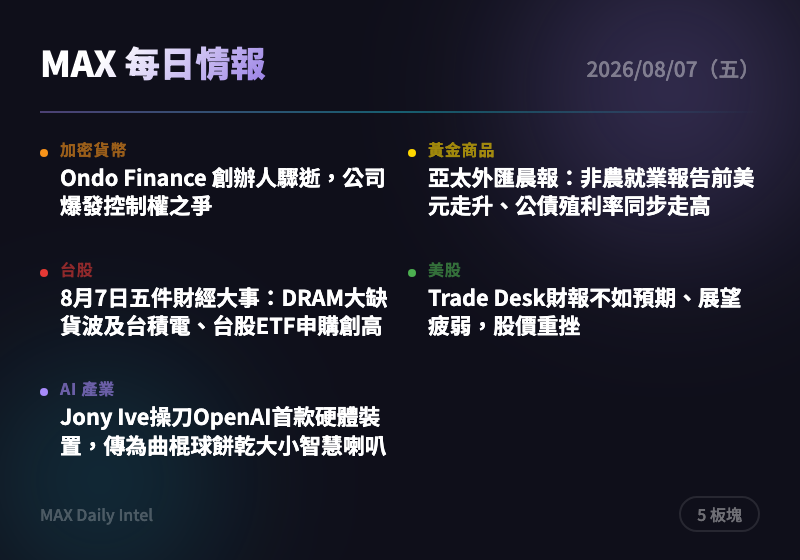
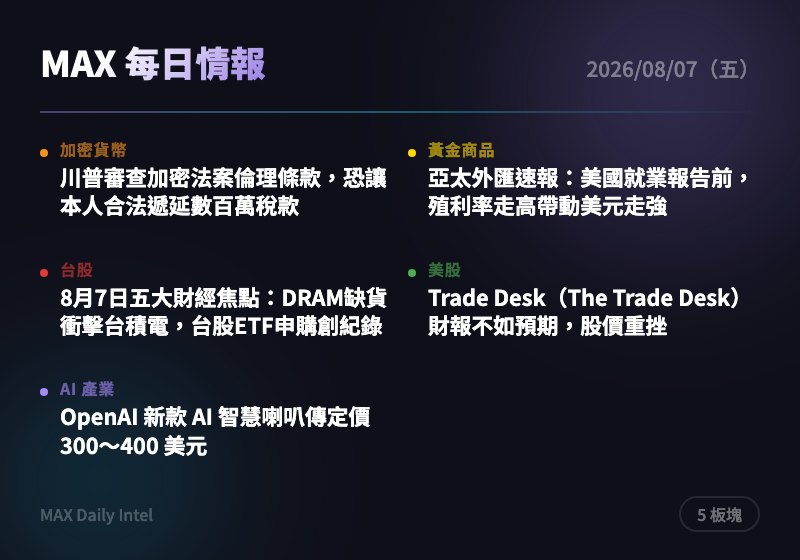
intel: 2026-08-07 每日情報自動生成

diff --git a/docs/2026-08-07.html b/docs/2026-08-07.html
@@ -317,16 +317,16 @@
       <span class="badge">2 則</span>
     </div>
     <div class="news-card">
-      <div class="source">CoinDesk</div>
-      <h3><a href="https://www.coindesk.com/policy/2026/08/06/power-struggle-erupts-at-ondo-finance-after-founder-s-death" target="_blank" rel="noopener">Ondo Finance 創辦人驟逝，公司爆發控制權之爭</a></h3>
-      <div class="summary">Ondo Finance 創辦人過世後，其母親出面要求奪回公司控制權並撤換現任執行長 De Bode。若公司治理陷入僵局，恐衝擊該公司在代幣化真實資產（RWA）領域的市場地位。建議持有相關部位者密切關注公司治理進展，暫緩加碼。</div>
-      <div class="tags"><span class="tag">加密貨幣</span><span class="tag">公司治理</span><span class="tag">RWA</span><span class="tag">Ondo Finance</span></div>
+      <div class="source">The Block</div>
+      <h3><a href="https://www.theblock.co/post/411065/crypto-bill-ethics-provision-could-let-trump-defer-millions-in-taxes-bloomberg?utm_source=rss&utm_medium=rss" target="_blank" rel="noopener">川普審查加密法案倫理條款，恐讓本人合法遞延數百萬稅款</a></h3>
+      <div class="summary">川普正審查加密貨幣立法中的倫理語言條款，若通過恐讓他本人獲得可觀的個人稅務優惠。此事凸顯加密監管立法與政治人物利益糾葛，可能影響法案推進速度與市場對美國加密監管明朗化的預期。建議追蹤該條款是否被移除或修改，作為判斷加密立法時程的風向指標。</div>
+      <div class="tags"><span class="tag">加密貨幣</span><span class="tag">監管</span><span class="tag">美國政治</span><span class="tag">稅務</span></div>
     </div>
     <div class="news-card">
       <div class="source">The Block</div>
-      <h3><a href="https://www.theblock.co/post/411049/bitcoin-miners-mara-cleanspark-double-digital-revenue-drops-ai-infrastructure-pivot?utm_source=rss&utm_medium=rss" target="_blank" rel="noopener">比特幣礦商 MARA、CleanSpark 營收雙位數下滑，轉型 AI 基礎建設持續</a></h3>
-      <div class="summary">兩大比特幣礦商財報顯示虧損擴大，MARA 淨損達 6.11 億美元，CleanSpark 淨損 2.4 億美元，反映挖礦本業獲利承壓。礦商正加速轉向 AI 資料中心業務尋求新成長動能，但市場對執行力要求更高。建議關注礦商轉型 AI 業務的具體進展與獲利兌現能力，勿僅憑題材追高。</div>
-      <div class="tags"><span class="tag">比特幣</span><span class="tag">礦商</span><span class="tag">AI基建</span><span class="tag">財報</span></div>
+      <h3><a href="https://www.theblock.co/post/411049/bitcoin-miners-mara-cleanspark-double-digital-revenue-drops-ai-infrastructure-pivot?utm_source=rss&utm_medium=rss" target="_blank" rel="noopener">比特幣礦商 MARA、CleanSpark 營收雙位數重挫，轉型 AI 基礎設施持續</a></h3>
+      <div class="summary">MARA 淨損擴大至 6.113 億美元（每股虧損 1.60 美元），CleanSpark 淨損 2.398 億美元（每股虧損 0.89 美元），兩大比特幣礦商營收明顯下滑。這反映挖礦業者在比特幣獲利壓力下加速轉型 AI 算力代管，但轉型初期仍面臨獲利陣痛。投資人應留意礦商轉型 AI 基建的執行進度是否能扭轉財報表現，而非僅看挖礦本業數字。</div>
+      <div class="tags"><span class="tag">比特幣</span><span class="tag">礦業</span><span class="tag">AI</span><span class="tag">財報</span></div>
     </div>
   </section>
 
@@ -338,15 +338,15 @@
     </div>
     <div class="news-card">
       <div class="source">ForexLive</div>
-      <h3><a href="https://investinglive.com/news/investinglive-asia-pacific-fx-news-wrap-6-aug-usd-moves-higher-with-yields-ahead-of-us-jobs-report/" target="_blank" rel="noopener">亞太外匯晨報：非農就業報告前美元走升、公債殖利率同步走高</a></h3>
-      <div class="summary">美國公債殖利率週四大漲，兩年期殖利率上升逾7個基點，十年期殖利率漲近6個基點至4.67%，主因初領失業金人數優於預期、生產力數據強勁，顯示就業市場依然具韌性。市場正密切關注即將公布的7月非農就業報告，作為聯準會後續利率路徑的重要參考。建議黃金與美元部位留意非農數據公布後的波動風險。</div>
-      <div class="tags"><span class="tag">外匯</span><span class="tag">美元</span><span class="tag">公債殖利率</span><span class="tag">非農就業</span></div>
+      <h3><a href="https://investinglive.com/news/investinglive-asia-pacific-fx-news-wrap-6-aug-usd-moves-higher-with-yields-ahead-of-us-jobs-report/" target="_blank" rel="noopener">亞太外匯速報：美國就業報告前，殖利率走高帶動美元走強</a></h3>
+      <div class="summary">美國公債殖利率週四大幅走高，兩年期殖利率上漲逾 7 個基點，十年期殖利率上漲近 6 個基點至 4.67%，主因是初領失業金人數優於預期、生產力數據強勁，顯示就業市場依然具韌性。殖利率走高通常對黃金構成短期壓力，因持有黃金的機會成本上升。建議關注即將公布的非農就業報告，將是黃金與美元短期方向的關鍵觸發點。</div>
+      <div class="tags"><span class="tag">美元</span><span class="tag">殖利率</span><span class="tag">就業數據</span><span class="tag">黃金</span></div>
     </div>
     <div class="news-card">
       <div class="source">ForexLive</div>
-      <h3><a href="https://investinglive.com/news/iran-is-reportedly-drafting-a-strategic-plan-that-would-restrict-access-through-the-strait-of-hormuz/" target="_blank" rel="noopener">傳伊朗擬限制荷姆茲海峽通行，鎖定美以相關船隻</a></h3>
-      <div class="summary">伊朗媒體 Fars 報導，伊朗正草擬戰略計畫，限制與美國、以色列及其他「敵對」國家有關的船隻通過荷姆茲海峽。此舉若成真將加劇中東地緣政治緊張，威脅全球原油運輸要道，推升避險需求與油價上行壓力。建議黃金及原油相關部位提高地緣政治風險權重，留意後續官方證實情況。</div>
-      <div class="tags"><span class="tag">地緣政治</span><span class="tag">伊朗</span><span class="tag">原油</span><span class="tag">荷姆茲海峽</span></div>
+      <h3><a href="https://investinglive.com/news/iran-is-reportedly-drafting-a-strategic-plan-that-would-restrict-access-through-the-strait-of-hormuz/" target="_blank" rel="noopener">伊朗傳研擬限制荷莫茲海峽航行，鎖定美、以船隻</a></h3>
+      <div class="summary">伊朗媒體 Fars 報導，伊朗正草擬戰略計畫，擬限制與美國、以色列及其他被視為敵對國家有關的船隻通過荷莫茲海峽，包含禁止相關軍民船隻通行、封鎖相關貨物運輸。荷莫茲海峽是全球原油運輸要道，任何封鎖威脅都將推升地緣政治風險溢價，帶動避險買盤湧入黃金與原油。建議密切關注後續官方證實與美方反應，作為黃金短線避險部位進出場依據。</div>
+      <div class="tags"><span class="tag">地緣政治</span><span class="tag">原油</span><span class="tag">避險</span><span class="tag">中東</span></div>
     </div>
   </section>
 
@@ -358,15 +358,15 @@
     </div>
     <div class="news-card">
       <div class="source">經濟日報</div>
-      <h3><a href="https://money.udn.com/money/story/5607/9676179" target="_blank" rel="noopener">8月7日五件財經大事：DRAM大缺貨波及台積電、台股ETF申購創高</a></h3>
-      <div class="summary">記憶體大缺貨風暴延燒，台積電傳出手握約10億美元蘋果處理器訂單卻苦無DRAM可用，凸顯供應鏈緊張已從記憶體廠蔓延至晶圓代工龍頭。同時台股ETF單月淨申購首度突破5,600億元、前七月累計申購達1.5兆元創新猷，顯示散戶資金持續透過ETF大舉進場。建議關注記憶體缺貨對下游供應鏈交期與報價的連動影響。</div>
-      <div class="tags"><span class="tag">台股</span><span class="tag">記憶體</span><span class="tag">台積電</span><span class="tag">ETF</span></div>
+      <h3><a href="https://money.udn.com/money/story/5607/9676179" target="_blank" rel="noopener">8月7日五大財經焦點：DRAM缺貨衝擊台積電，台股ETF申購創紀錄</a></h3>
+      <div class="summary">記憶體大缺貨傳出波及台積電，手握約10億美元蘋果處理器訂單卻缺 DRAM 可用；同時台股 ETF 單月淨申購首度突破 5,600 億元，前七月累計申購達 1.5 兆元創新高。這顯示記憶體供應鏈緊張已擴散至晶圓代工龍頭，同時台灣散戶資金大舉透過 ETF 進場，市場資金動能與供應鏈風險並存。建議留意記憶體缺貨對台積電及下游客戶交期的實際影響，並觀察 ETF 資金是否持續支撐大盤估值。</div>
+      <div class="tags"><span class="tag">台積電</span><span class="tag">記憶體</span><span class="tag">ETF</span><span class="tag">半導體</span></div>
     </div>
     <div class="news-card">
       <div class="source">經濟日報</div>
-      <h3><a href="https://money.udn.com/money/story/5710/9675607" target="_blank" rel="noopener">AES-KY第二季EPS 12.81元，AI伺服器備援電池模組出貨帶動獲利</a></h3>
-      <div class="summary">電池模組股王AES-KY第二季受惠AI伺服器備援電池模組（BBU）出貨放量，稅後純益季增逾兩成，單季EPS達12.81元創新高，上半年已賺逾兩個股本。此顯示AI伺服器供應鏈中利基型零組件廠商持續受惠資本支出熱潮。建議關注AI伺服器相關零組件供應商的訂單能見度與擴產進度。</div>
-      <div class="tags"><span class="tag">台股</span><span class="tag">AI伺服器</span><span class="tag">財報</span><span class="tag">電池模組</span></div>
+      <h3><a href="https://money.udn.com/money/story/5739/9675659" target="_blank" rel="noopener">記憶體題材發燒，旺宏、宜鼎權證認購買氣聚焦</a></h3>
+      <div class="summary">台股昨日震盪走跌收 44,396 點，但記憶體相關個股表現亮眼，發行券商點名旺宏（2337）、宜鼎（5289）權證受到買盤青睞。此反映在全球記憶體漲價與缺貨題材延燒下，市場資金轉向布局台廠記憶體概念股。建議關注記憶體報價後續走勢，作為判斷相關權證與個股行情持續性的依據。</div>
+      <div class="tags"><span class="tag">記憶體</span><span class="tag">權證</span><span class="tag">台股</span><span class="tag">半導體</span></div>
     </div>
   </section>
 
@@ -378,14 +378,14 @@
     </div>
     <div class="news-card">
       <div class="source">MarketWatch</div>
-      <h3><a href="https://www.marketwatch.com/story/trade-desk-shares-tumble-on-earnings-miss-and-weak-outlook-9f4640e9?mod=mw_rss_topstories" target="_blank" rel="noopener">Trade Desk財報不如預期、展望疲弱，股價重挫</a></h3>
-      <div class="summary">廣告科技公司 Trade Desk 第二季財報營收與獲利雙雙不如預期，加上疲弱的未來展望，導致股價大幅下跌，顯示其成長動能持續放緩。建議關注數位廣告產業競爭格局變化及該公司後續轉型策略。</div>
-      <div class="tags"><span class="tag">美股</span><span class="tag">廣告科技</span><span class="tag">財報</span></div>
+      <h3><a href="https://www.marketwatch.com/story/trade-desk-shares-tumble-on-earnings-miss-and-weak-outlook-9f4640e9?mod=mw_rss_topstories" target="_blank" rel="noopener">Trade Desk（The Trade Desk）財報不如預期，股價重挫</a></h3>
+      <div class="summary">Trade Desk 第二季財報營收與獲利雙雙未達市場預期，且展望令人失望，反映公司成長動能持續放緩。作為程式化廣告技術指標股，其疲弱表現可能引發市場對數位廣告產業成長性的重新評估。建議留意同業廣告科技股是否受到連帶拖累，並觀察公司後續展望調整方向。</div>
+      <div class="tags"><span class="tag">美股</span><span class="tag">廣告科技</span><span class="tag">財報</span><span class="tag">成長股</span></div>
     </div>
     <div class="news-card">
       <div class="source">MarketWatch</div>
-      <h3><a href="https://www.marketwatch.com/story/honeywell-aerospace-lands-in-wall-streets-penalty-box-after-gloomy-guidance-triggers-21-stock-selloff-ea8b032c?mod=mw_rss_topstories" target="_blank" rel="noopener">漢威聯合航太財報疲弱，股價暴跌23%被打入華爾街「冷宮」</a></h3>
-      <div class="summary">剛拆分獨立不久的漢威聯合航太（Honeywell Aerospace）因財測展望悲觀，股價單日重挫23%，成立僅數週便震驚華爾街。此事件顯示大型企業分拆後獨立經營初期仍面臨市場高度檢視與信任重建壓力。建議關注該公司後續財測修正與訂單能見度是否能穩定投資人信心。</div>
+      <h3><a href="https://www.marketwatch.com/story/honeywell-aerospace-lands-in-wall-streets-penalty-box-after-gloomy-guidance-triggers-21-stock-selloff-ea8b032c?mod=mw_rss_topstories" target="_blank" rel="noopener">漢威聯合航太（Honeywell Aerospace）財測悲觀，股價暴跌23%</a></h3>
+      <div class="summary">剛從漢威聯合分拆獨立不久的漢威航太，因公布悲觀財測，股價單日暴跌23%，震驚華爾街。這顯示這家新掛牌獨立公司在成立初期就面臨市場信心考驗，分拆後的獨立營運能力受到質疑。建議關注該公司後續財測調整與管理層應對策略，作為評估分拆公司獨立營運品質的案例參考。</div>
       <div class="tags"><span class="tag">美股</span><span class="tag">航太</span><span class="tag">財報</span><span class="tag">企業分拆</span></div>
     </div>
   </section>
@@ -397,16 +397,16 @@
       <span class="badge">2 則</span>
     </div>
     <div class="news-card">
-      <div class="source">The Verge AI</div>
-      <h3><a href="https://www.theverge.com/ai-artificial-intelligence/976431/openai-chatgpt-battery-smart-speaker-rumor" target="_blank" rel="noopener">Jony Ive操刀OpenAI首款硬體裝置，傳為曲棍球餅乾大小智慧喇叭</a></h3>
-      <div class="summary">OpenAI 與前蘋果設計師 Jony Ive 合作開發的AI裝置，據Bloomberg記者Mark Gurman報導，形似無螢幕智慧喇叭，電池供電、甜甜圈造型，體積約如曲棍球餅乾，預計2027年上市、售價超過300美元。此為OpenAI首度跨足消費性硬體領域，若成功將挑戰現有智慧喇叭市場格局。建議關注後續產品發表細節及市場競品（如Amazon Echo、Google Home）的因應策略。</div>
-      <div class="tags"><span class="tag">AI</span><span class="tag">OpenAI</span><span class="tag">硬體</span><span class="tag">消費電子</span></div>
+      <div class="source">TechCrunch AI</div>
+      <h3><a href="https://techcrunch.com/2026/08/06/openais-new-ai-smart-speaker-will-reportedly-sell-for-between-300-400/" target="_blank" rel="noopener">OpenAI 新款 AI 智慧喇叭傳定價 300～400 美元</a></h3>
+      <div class="summary">據報導，OpenAI 與前蘋果設計師 Jony Ive 合作開發的神秘 AI 裝置，實為一款無螢幕智慧喇叭，定價落在300至400美元之間，預計2027年推出。這是 OpenAI 首次跨足消費硬體領域，象徵 AI 公司從純軟體服務走向硬體生態系布局，可能開啟 AI 原生裝置市場新戰場。建議關注此裝置對現有智慧喇叭市場（如 Amazon、Google）的競爭衝擊，以及 OpenAI 硬體策略對其估值的影響。</div>
+      <div class="tags"><span class="tag">OpenAI</span><span class="tag">AI硬體</span><span class="tag">消費電子</span><span class="tag">Jony Ive</span></div>
     </div>
     <div class="news-card">
       <div class="source">TechCrunch AI</div>
-      <h3><a href="https://techcrunch.com/2026/08/05/klaviyo-acquires-elias-torres-agency-in-full-circle-reunion-for-tech-founders/" target="_blank" rel="noopener">Jeff Dean等Google頂尖AI研究員出走，另起爐灶創業</a></h3>
-      <div class="summary">Google傳奇高層Jeff Dean與多位資深AI研究員宣布離職，共同創立新創公司，目標運用AI推動科學發現進程。此事件緊接Google宣布大規模AI組織重組之後爆發，反映Google在AI人才留任上面臨嚴峻挑戰，也可能加劇AI人才市場的競爭與資金重新分配。建議關注新創公司後續募資動向及對Google DeepMind研發布局的潛在衝擊。</div>
-      <div class="tags"><span class="tag">AI</span><span class="tag">Google</span><span class="tag">人才出走</span><span class="tag">新創</span></div>
+      <h3><a href="https://techcrunch.com/2026/08/06/openai-brings-unlimited-chatgpt-text-chats-to-free-users/" target="_blank" rel="noopener">ChatGPT 免費用戶可無限次文字對話</a></h3>
+      <div class="summary">OpenAI 宣布 ChatGPT 免費版與 Go 方案用戶自下週起可享無限次文字對話，並新增可處理複雜查詢的「思考」按鈕功能。此舉大幅提升免費用戶體驗，可能加速用戶黏著度與轉換率，同時也是 OpenAI 對抗 Google、Anthropic 等競爭對手爭奪一般消費者市場的策略之一。建議關注此舉對付費訂閱轉換率的長期影響，以及是否帶動整體月活躍用戶數成長。</div>
+      <div class="tags"><span class="tag">OpenAI</span><span class="tag">ChatGPT</span><span class="tag">產品更新</span><span class="tag">AI</span></div>
     </div>
   </section>
 

diff --git a/docs/cards/2026-08-07-card.html b/docs/cards/2026-08-07-card.html
@@ -23,10 +23,10 @@ body{width:400px;height:280px;font-family:'Noto Sans TC',-apple-system,sans-seri
 <div class="content">
 <div class="top-row"><span class="title">MAX 每日情報</span><span class="date">2026/08/07（五）</span></div>
 <div class="divider"></div>
-<div class="grid"><div class="cell"><div class="dot" style="background:#f7931a"></div><div><div class="label" style="color:#f7931a">加密貨幣</div><div class="headline">Ondo Finance 創辦人驟逝，公司爆發控制權之爭</div></div></div>
-<div class="cell"><div class="dot" style="background:#ffd700"></div><div><div class="label" style="color:#ffd700">黃金商品</div><div class="headline">亞太外匯晨報：非農就業報告前美元走升、公債殖利率同步走高</div></div></div>
-<div class="cell"><div class="dot" style="background:#e53935"></div><div><div class="label" style="color:#e53935">台股</div><div class="headline">8月7日五件財經大事：DRAM大缺貨波及台積電、台股ETF申購創高</div></div></div>
-<div class="cell"><div class="dot" style="background:#4caf50"></div><div><div class="label" style="color:#4caf50">美股</div><div class="headline">Trade Desk財報不如預期、展望疲弱，股價重挫</div></div></div>
-<div class="cell"><div class="dot" style="background:#a78bfa"></div><div><div class="label" style="color:#a78bfa">AI 產業</div><div class="headline">Jony Ive操刀OpenAI首款硬體裝置，傳為曲棍球餅乾大小智慧喇叭</div></div></div></div>
+<div class="grid"><div class="cell"><div class="dot" style="background:#f7931a"></div><div><div class="label" style="color:#f7931a">加密貨幣</div><div class="headline">川普審查加密法案倫理條款，恐讓本人合法遞延數百萬稅款</div></div></div>
+<div class="cell"><div class="dot" style="background:#ffd700"></div><div><div class="label" style="color:#ffd700">黃金商品</div><div class="headline">亞太外匯速報：美國就業報告前，殖利率走高帶動美元走強</div></div></div>
+<div class="cell"><div class="dot" style="background:#e53935"></div><div><div class="label" style="color:#e53935">台股</div><div class="headline">8月7日五大財經焦點：DRAM缺貨衝擊台積電，台股ETF申購創紀錄</div></div></div>
+<div class="cell"><div class="dot" style="background:#4caf50"></div><div><div class="label" style="color:#4caf50">美股</div><div class="headline">Trade Desk（The Trade Desk）財報不如預期，股價重挫</div></div></div>
+<div class="cell"><div class="dot" style="background:#a78bfa"></div><div><div class="label" style="color:#a78bfa">AI 產業</div><div class="headline">OpenAI 新款 AI 智慧喇叭傳定價 300～400 美元</div></div></div></div>
 <div class="bottom-row"><span class="url">MAX Daily Intel</span><span class="badge">5 板塊</span></div>
 </div></body></html>
